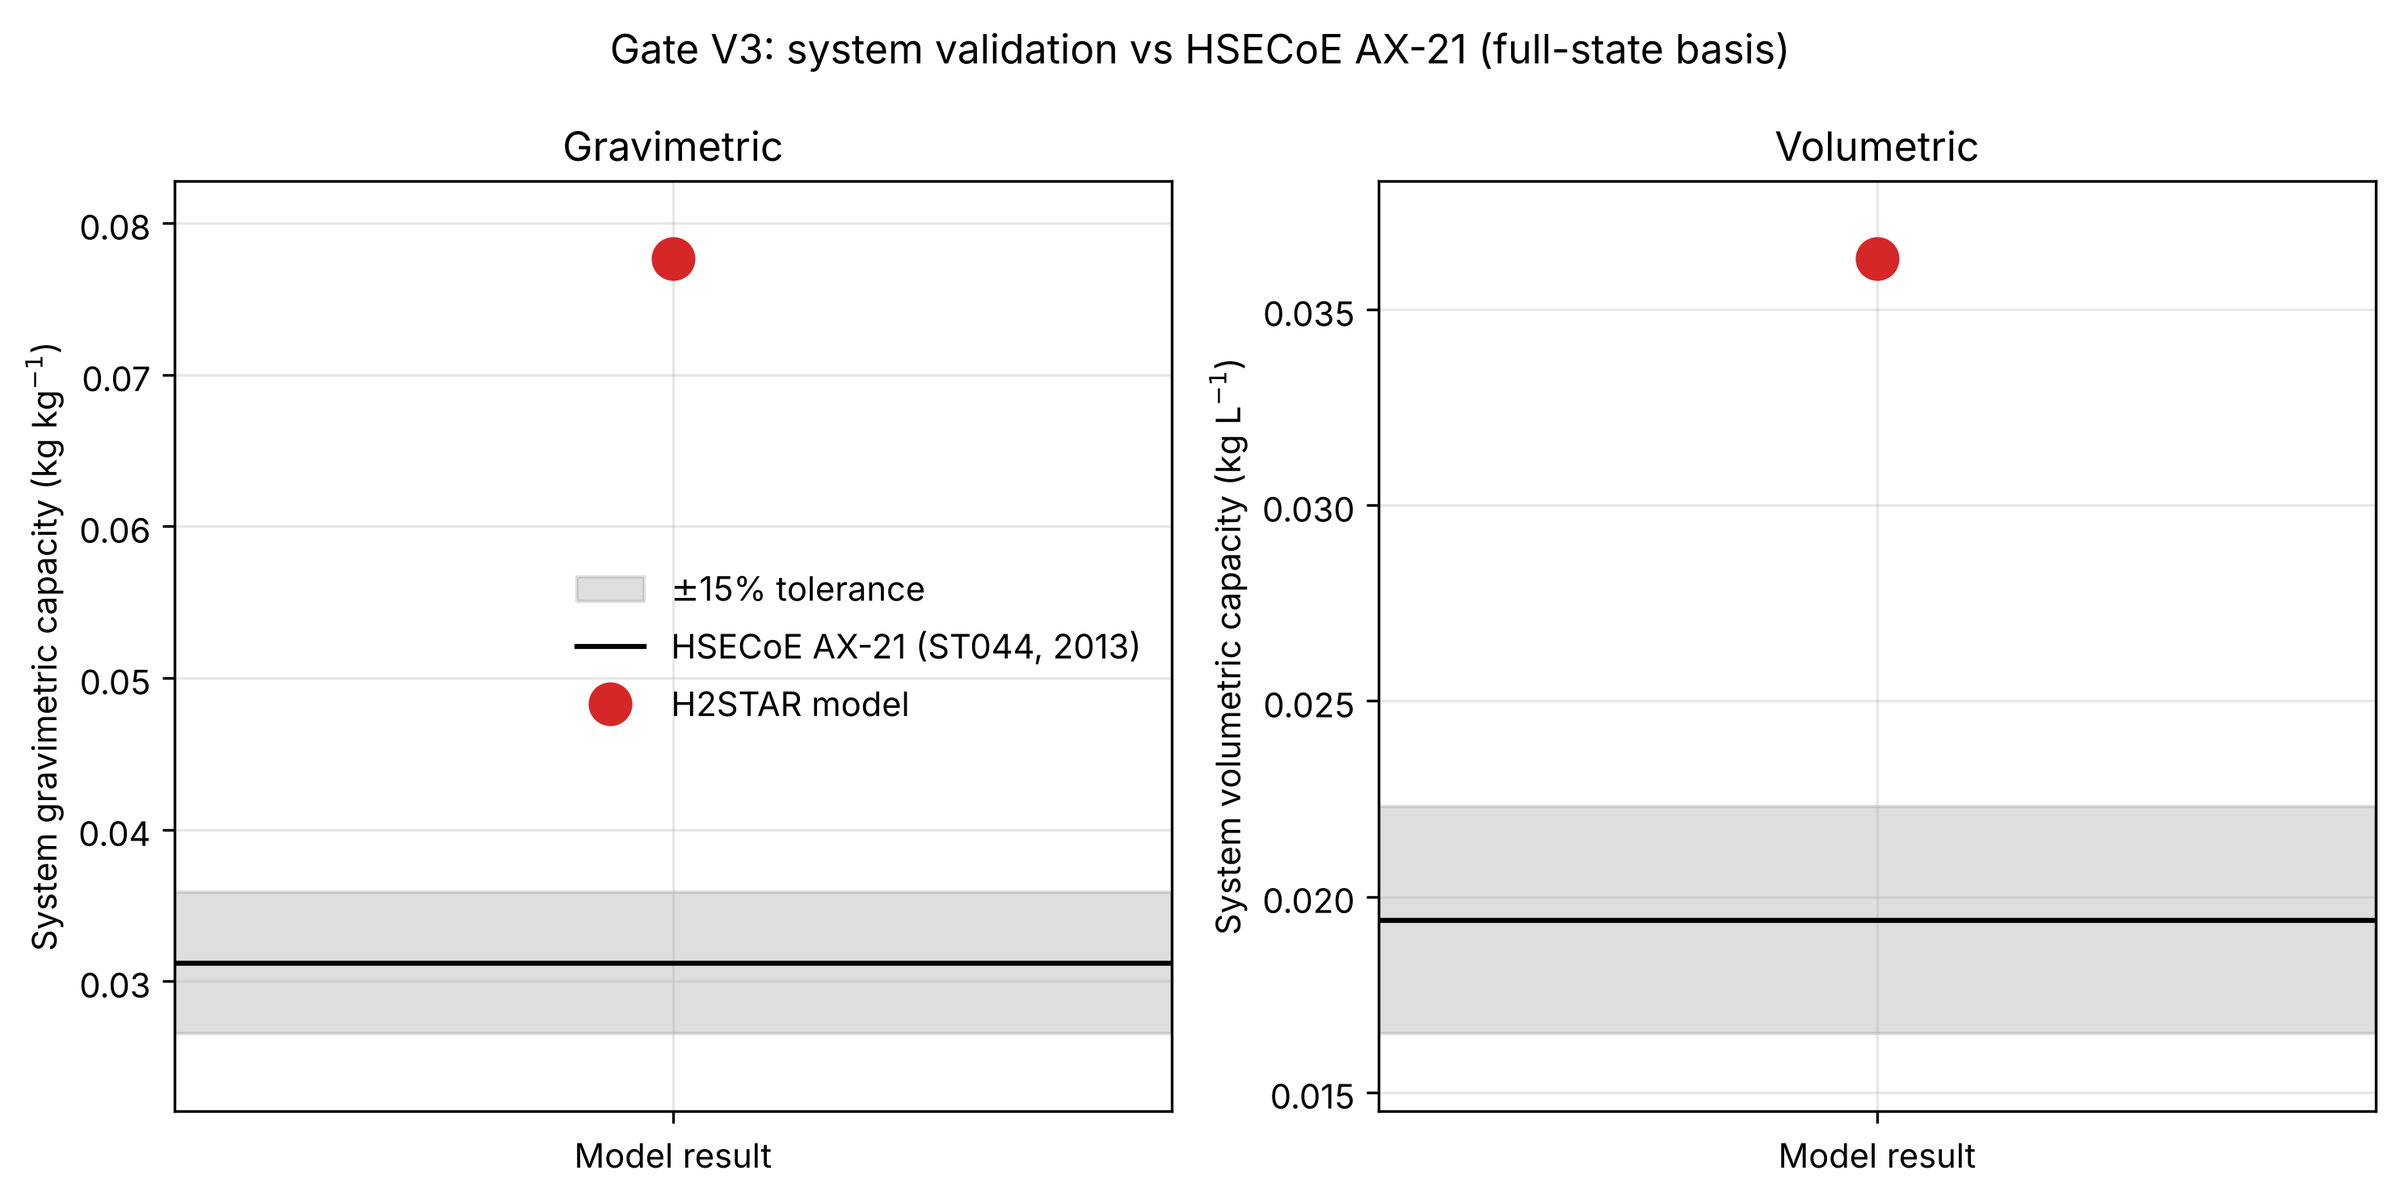
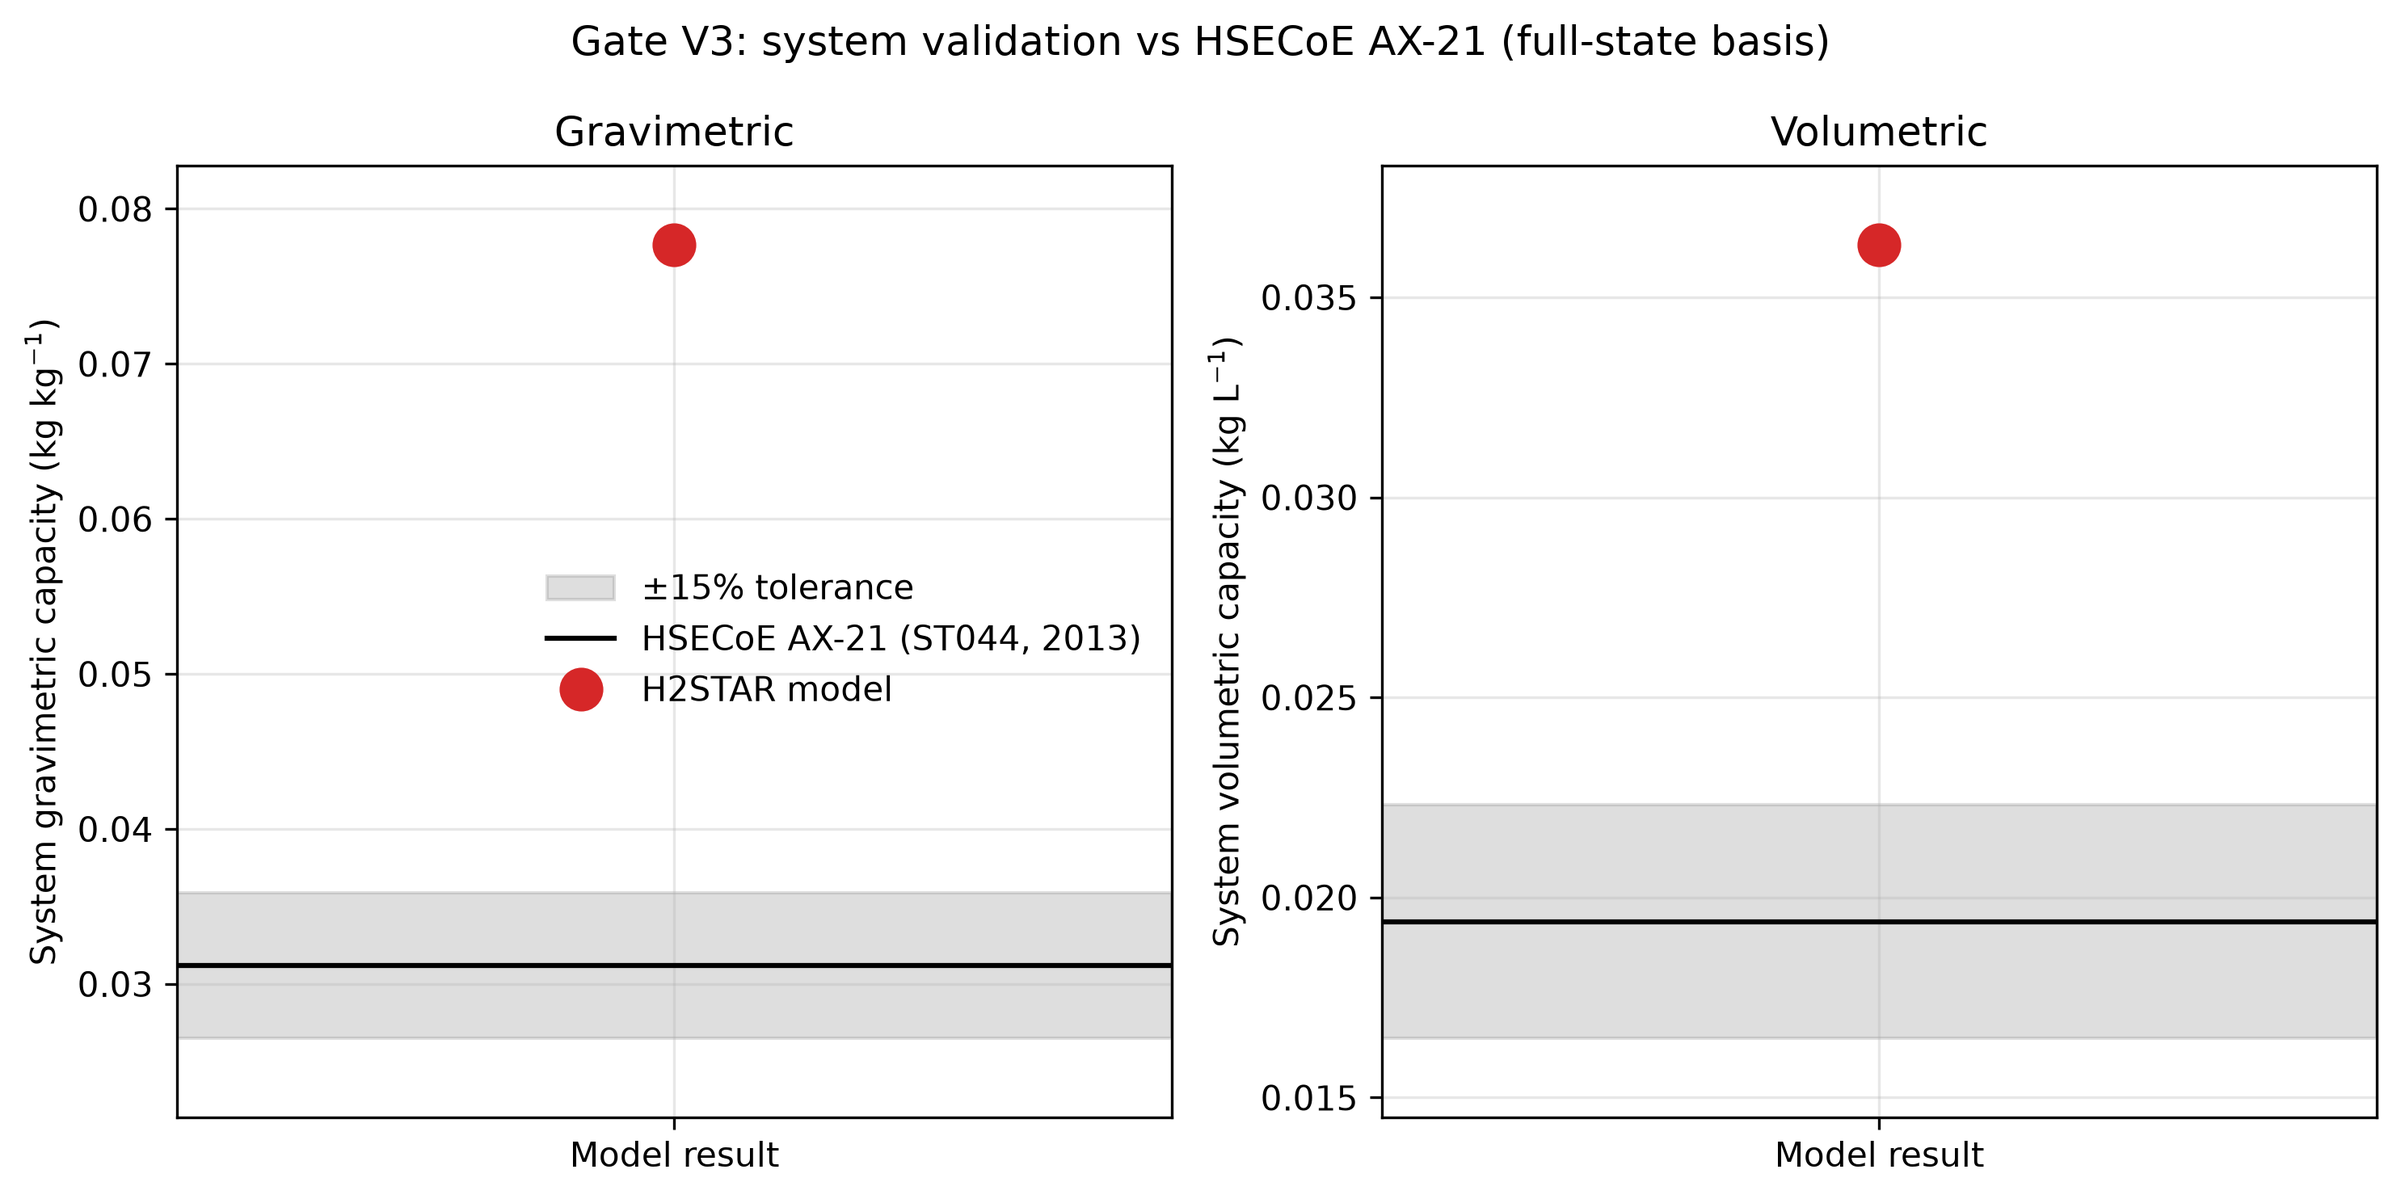
Pin figure rendering so figures reproduce off this machine
The clean-room check at the end of Stage 6 regenerated all nine PNGs from a
fresh clone in a fresh Python 3.11 venv. All nine headline numbers reproduced
to the last digit. All nine images differed.

The cause was not numerical. Matplotlib takes font.family and text.hinting
from whichever configuration the host environment supplies, and the container
this project is developed in injects font.family = Inter, sans-serif,
DejaVu Sans and text.hinting = no_hinting -- into rcParamsDefault itself, so
even a fresh install inside the container inherits them. Neither value is
declared by any dependency this repository names. Every label was therefore
drawn in a font no other machine has, which moved every tight bounding box and
so every pixel, while leaving every plotted number untouched.

Forcing those two values in the clean-room venv reproduced the committed bytes
exactly, for F1 at 150 dpi and F3 at 300 dpi. That is what establishes the
diagnosis: the differences were the host's font configuration and nothing else.

So the figures as committed could not be regenerated anywhere but one
container, and README and docs/known_limitations.md claimed byte-identity on
the strength of repeat runs inside it. Repeat runs in one environment cannot
see an environment-dependent defect; only a comparison across environments
can, which is what the clean-room gate is for.

viz.FIGURE_RCPARAMS now pins the rendering configuration and every plotting
[…]

diff --git a/tests/test_viz_style.py b/tests/test_viz_style.py
@@ -1,0 +1,186 @@
+"""The figure rendering configuration is the repository's, not the host's.
+
+A figure's bytes depend on the font its text is drawn with. Matplotlib takes
+that font from whichever ``matplotlibrc`` the host environment supplies, so a
+host that names a different ``font.family`` changes every label, every tight
+bounding box and therefore every pixel of every figure, while leaving every
+number it plots untouched. Figures drawn that way reproduce nowhere else.
+
+H2STAR shipped figures with exactly that defect. The clean-room check at the
+end of Stage 6 regenerated all nine PNGs from a fresh clone in a fresh
+environment: all nine headline numbers reproduced to the last digit and all
+nine images differed. The cause was two ``rcParams`` -- ``font.family`` and
+``text.hinting`` -- injected by the development container and declared by no
+dependency the repository names. Forcing those two values in the clean room
+reproduced the committed bytes exactly, which is what established that the
+differences were the font configuration and nothing numerical.
+
+These tests exist so that cannot happen quietly again. The important one is
+:func:`test_every_public_plot_function_is_styled`: the defect returns the
+moment someone adds a plotting function and forgets the pin, and a byte
+comparison across environments is the only other thing that would notice.
+"""
+
+import matplotlib as mpl
+import matplotlib.pyplot as plt
+import pytest
+from matplotlib.font_manager import FontProperties, findfont
+
+from h2star import viz
+
+# A host configuration deliberately unlike the pin, standing in for the kind
+# of ambient override a container image applies. Palatino is a serif face, so
+# a figure drawn under it is visibly and measurably not the pinned figure.
+AMBIENT_OVERRIDE = {
+    "font.family": ["Palatino", "serif"],
+    "font.size": 13.0,
+    "text.hinting": "no_hinting",
+}
+
+
+@pytest.fixture
+def ambient_override():
+    """Run the test body under a host-like ``rcParams`` override."""
+    with mpl.rc_context(AMBIENT_OVERRIDE):
+        yield
+
+
+def _plot_functions():
+    """Every public plotting entry point in :mod:`h2star.viz`."""
+    return sorted(
+        name
+        for name in dir(viz)
+        if not name.startswith("_")
+        and callable(getattr(viz, name))
+        and (name.startswith("plot_") or name.endswith("_plot"))
+    )
+
+
+def test_every_public_plot_function_is_styled():
+    """No plotting function may draw under the host's font configuration.
+
+    ``functools.wraps`` leaves ``__wrapped__`` on the decorated function, so
+    the pin is detectable from outside. A new plotting function that forgets
+    ``@_styled`` fails here rather than silently shipping figures that only
+    reproduce on the machine that drew them.
+    """
+    names = _plot_functions()
+    # Guard the guard: if the discovery predicate ever stops matching, this
+    # test would pass by finding nothing to check.
+    assert len(names) >= 9, f"expected the full plotting surface, found {names}"
+
+    unstyled = [
+        name for name in names if not hasattr(getattr(viz, name), "__wrapped__")
+    ]
+    assert not unstyled, (
+        "these plotting functions draw under the host's rcParams rather than "
+        f"the pinned ones; add @_styled: {unstyled}"
+    )
+
+
+def test_pin_names_only_real_rcparams():
+    """A typo in a pinned key would silently pin nothing."""
+    unknown = [key for key in viz.FIGURE_RCPARAMS if key not in mpl.rcParams]
+    assert not unknown, f"not Matplotlib rcParams keys: {unknown}"
+
+
+#: Matplotlib's own stock defaults for the pinned keys, read from an
+#: unmodified Matplotlib 3.11.2 install.
+#:
+#: These are written out as literals rather than read from
+#: ``mpl.rcParamsDefault`` on purpose. ``rcParamsDefault`` is not a record of
+#: what Matplotlib ships: a host can modify it, and the container this project
+#: was developed in does exactly that -- it reports ``font.family`` as
+#: ``['Inter', 'sans-serif', 'DejaVu Sans']`` and ``text.hinting`` as
+#: ``'no_hinting'``. Comparing the pin against it would therefore compare the
+#: pin against the host, which is the comparison the pin exists to escape.
+STOCK_DEFAULTS = {
+    "font.size": 10.0,
+    "mathtext.fontset": "dejavusans",
+    "text.antialiased": True,
+    "text.hinting": "default",
+    "text.hinting_factor": None,
+    "axes.unicode_minus": True,
+}
+
+
+def test_pin_matches_matplotlib_defaults_except_font_family():
+    """The pin is Matplotlib's own default behaviour, made explicit.
+
+    Pinning anything else would mean the figures depend on a styling choice
+    this repository invented, which is harder to defend and no more
+    reproducible. ``font.family`` is the single exception: it names the
+    concrete font that the default ``sans-serif`` alias resolves to, so that
+    resolution cannot be redirected by the host's ``font.sans-serif`` list or
+    by which fonts the host happens to have installed.
+    """
+    assert set(viz.FIGURE_RCPARAMS) == set(STOCK_DEFAULTS) | {"font.family"}, (
+        "the pinned key set changed; confirm the new key's stock default "
+        "against an unmodified Matplotlib install and record it here"
+    )
+    assert viz.FIGURE_RCPARAMS["font.family"] == ["DejaVu Sans"]
+    for key, stock in STOCK_DEFAULTS.items():
+        assert viz.FIGURE_RCPARAMS[key] == stock, (
+            f"{key} is pinned to {viz.FIGURE_RCPARAMS[key]!r} but Matplotlib "
+            f"ships {stock!r}"
+        )
+
+
+def test_pinned_font_ships_with_matplotlib():
+    """The pinned font must need no system font to be installed.
+
+    DejaVu Sans lives inside the Matplotlib wheel. Resolving to a path under
+    ``mpl-data`` is what makes the pin portable: a machine with no fonts of
+    its own still draws these figures identically.
+    """
+    with viz.figure_style():
+        resolved = findfont(FontProperties(family=viz.FIGURE_RCPARAMS["font.family"]))
+    assert "mpl-data" in resolved, (
+        f"pinned font resolved to {resolved}, which is outside Matplotlib's "
+        "bundled fonts, so figures would depend on the host's installed fonts"
+    )
+    assert "DejaVuSans" in resolved
+
+
+def test_figure_style_applies_the_pin(ambient_override):
+    """Inside the context manager, the pin wins over the host."""
+    assert mpl.rcParams["font.family"] == ["Palatino", "serif"]
+    with viz.figure_style():
+        for key, pinned in viz.FIGURE_RCPARAMS.items():
+            assert mpl.rcParams[key] == pinned
+
+
+def test_figure_style_restores_ambient_rcparams(ambient_override):
+    """Importing or calling this module must not mutate a caller's config.
+
+    A library that leaves global state changed behind it is its own bug, and
+    it would make the pin unfalsifiable: every later figure in the process
+    would look pinned whether or not it was drawn under the pin.
+    """
+    before = {key: mpl.rcParams[key] for key in viz.FIGURE_RCPARAMS}
+    with viz.figure_style():
+        pass
+    after = {key: mpl.rcParams[key] for key in viz.FIGURE_RCPARAMS}
+    assert after == before
+    assert after["font.family"] == ["Palatino", "serif"]
+
+
+def test_plot_call_draws_with_the_pinned_font(ambient_override):
+    """A decorated plotting call ignores the host font, end to end.
+
+    Text artists capture their font properties when they are created, so the
+    title of a figure drawn under the override reports the pinned family only
+    if the pin was actually in force while the artist was built.
+    """
+    isotherms = [{"T": 77.0, "nist": [1.0, 2.0, 3.0], "model": [1.0, 2.0, 3.0]}]
+    fig, ax = viz.eos_parity_plot(isotherms)
+    try:
+        assert ax.title.get_fontfamily() == ["DejaVu Sans"]
+        assert ax.xaxis.label.get_fontfamily() == ["DejaVu Sans"]
+        # The host set font.size to 13; the pin puts it back to 10, and the
+        # tick labels take their size from it.
+        assert ax.get_xticklabels()[0].get_fontsize() == pytest.approx(10.0)
+    finally:
+        plt.close(fig)
+    # And the host's configuration is intact for whatever runs next.
+    assert mpl.rcParams["font.family"] == ["Palatino", "serif"]

diff --git a/src/h2star/viz.py b/src/h2star/viz.py
@@ -1,7 +1,9 @@
 """Visualization of isotherms, envelopes, and system-level results."""
 
+import functools
 from pathlib import Path
 
+import matplotlib as mpl
 import matplotlib.pyplot as plt
 import numpy as np
 from matplotlib.lines import Line2D
@@ -9,7 +11,85 @@ from matplotlib.patches import Patch
 
 from .heats import isosteric_heat
 
+#: Rendering parameters pinned for every figure this module draws.
+#:
+#: A figure's *bytes* depend on the font its text is drawn with, and Matplotlib
+#: takes that from whichever ``matplotlibrc`` the host environment supplies. A
+#: host that names a different ``font.family`` -- some container images do --
+#: silently changes every label, every tight bounding box, and therefore every
+#: pixel, while leaving all the numbers untouched. Figures built under such a
+#: host cannot be regenerated anywhere else. That is a defect in the figure,
+#: not in the host, and it is invisible unless something compares bytes across
+#: environments: H2STAR's own clean-room check found exactly this, with all
+#: nine PNGs differing and all nine headline numbers reproducing exactly.
+#:
+#: Pinning these removes the host from the question. ``DejaVu Sans`` is named
+#: outright rather than reached through the ``sans-serif`` alias because DejaVu
+#: ships inside the Matplotlib wheel: it is present wherever Matplotlib is, so
+#: the pin relies on no system font being installed and no alias resolving a
+#: particular way. Every value is Matplotlib's own documented default, except
+#: that ``font.family`` names the concrete font the default alias resolves to
+#: on a stock install.
+#:
+#: What this buys is byte-identity for a given Matplotlib and FreeType version,
+#: verified across two Python versions and two independent installs. It does
+#: not buy byte-identity *across* those versions: FreeType rasterises glyphs
+#: differently between releases, so different FreeType draws the same text with
+#: different pixels. ``docs/known_limitations.md`` states the limit.
+FIGURE_RCPARAMS = {
+    "font.family": ["DejaVu Sans"],
+    "font.size": 10.0,
+    "mathtext.fontset": "dejavusans",
+    "text.antialiased": True,
+    "text.hinting": "default",
+    "text.hinting_factor": None,
+    "axes.unicode_minus": True,
+}
 
+
+def figure_style():
+    """Context manager that applies :data:`FIGURE_RCPARAMS`.
+
+    Every plotting function in this module already applies it to its own
+    drawing. Use this directly when a *caller* creates the figure or saves it
+    -- ``scripts/make_all_figures.py`` does, because the isosteric-heat figure
+    is assembled by the caller around :func:`plot_isosteric_heat`, so the
+    figure-level text would otherwise be drawn under the host's font.
+
+    Returns
+    -------
+    matplotlib.rc_context
+        A context manager. Ambient ``rcParams`` are restored on exit, so
+        importing or calling this module never mutates a caller's global
+        Matplotlib configuration.
+
+    Examples
+    --------
+    >>> from h2star import viz
+    >>> with viz.figure_style():
+    ...     fig, ax = plt.subplots()
+    ...     _ = ax.set_title("drawn with the pinned font")
+    """
+    return mpl.rc_context(FIGURE_RCPARAMS)
+
+
+def _styled(func):
+    """Apply :data:`FIGURE_RCPARAMS` for the duration of a plotting call.
+
+    A decorator rather than an indented ``with`` block inside each function
+    body: it keeps the pin in one place, so a new plotting function opts in
+    with one line and cannot half-apply it.
+    """
+
+    @functools.wraps(func)
+    def wrapper(*args, **kwargs):
+        with figure_style():
+            return func(*args, **kwargs)
+
+    return wrapper
+
+
+@_styled
 def eos_parity_plot(isotherms, savepath=None):
     """Parity plot of model vs. reference density for one or more isotherms.
 
@@ -69,6 +149,7 @@ def eos_parity_plot(isotherms, savepath=None):
     return fig, ax
 
 
+@_styled
 def plot_ax21_isotherm(P_data_mpa, n_excess_data, P_curve_mpa, n_excess_curve,
                        n_absolute_curve, residuals, rmse_value=None,
                        threshold=None, savepath=None, *,
@@ -167,6 +248,7 @@ def plot_ax21_isotherm(P_data_mpa, n_excess_data, P_curve_mpa, n_excess_curve,
     return fig
 
 
+@_styled
 def plot_isosteric_heat(da, n_over_nmax_min=0.02, n_over_nmax_max=0.60, T=77.0,
                         band=(4000.0, 7000.0), n_points=100, ax=None):
     """Isosteric heat vs. coverage (F3): numerical curve, D-A limit, anchor band.
@@ -226,6 +308,7 @@ def plot_isosteric_heat(da, n_over_nmax_min=0.02, n_over_nmax_max=0.60, T=77.0,
     return ax
 
 
+@_styled
 def plot_system_validation(
     gc_model, vc_model,
     gc_anchor, vc_anchor,
@@ -375,6 +458,7 @@ def _param_label(name):
     return _PARAM_LABELS.get(name, name)
 
 
+@_styled
 def plot_forward_maps(grid, targets=None, title=None, savepath=None):
     """Forward GC and VC maps over the full state (F5).
 
@@ -467,6 +551,7 @@ def plot_forward_maps(grid, targets=None, title=None, savepath=None):
     return fig, (ax_gc, ax_vc)
 
 
+@_styled
 def plot_acceptability_maps(maps, reference_points=None, title=None,
                             savepath=None):
     """Material acceptability maps in two parameter planes (F6).
@@ -599,6 +684,7 @@ def plot_acceptability_maps(maps, reference_points=None, title=None,
     return fig, axes
 
 
+@_styled
 def plot_probability_maps(maps, coherence_curves=None, reference_points=None,
                           title=None, savepath=None,
                           levels=(0.05, 0.50, 0.95)):
@@ -725,6 +811,7 @@ def plot_probability_maps(maps, coherence_curves=None, reference_points=None,
     return fig, axes
 
 
+@_styled
 def plot_sobol_indices(studies, labels, output="GC", title=None, savepath=None):
     """Sobol first- and total-order indices at two envelopes, side by side (F7).
 
@@ -813,6 +900,7 @@ def plot_sobol_indices(studies, labels, output="GC", title=None, savepath=None):
     return fig, axes
 
 
+@_styled
 def plot_cnt_gap(waterfalls, screen, title=None, savepath=None):
     """CNT case study: the material-to-system gap and the consistency screen (F8).
 

diff --git a/scripts/make_all_figures.py b/scripts/make_all_figures.py
@@ -440,10 +440,17 @@ def main(argv=None):
         print(f"{name} ...", end=" ", flush=True)
         step = time.perf_counter()
         try:
-            if takes_quick:
-                builder(context, args.figures, quick=args.quick)
-            else:
-                builder(context, args.figures)
+            # viz pins the rendering parameters for its own drawing, but a
+            # builder that assembles its own figure around a viz call -- F3
+            # does -- would otherwise draw the figure-level text under
+            # whatever font the host environment supplies. Applying the pin
+            # here covers every builder, present and future, rather than
+            # leaving each one to remember.
+            with viz.figure_style():
+                if takes_quick:
+                    builder(context, args.figures, quick=args.quick)
+                else:
+                    builder(context, args.figures)
         except Exception as exc:  # noqa: BLE001 - reported, not swallowed
             failures.append((name, exc))
             print(f"FAILED ({type(exc).__name__}: {exc})")
